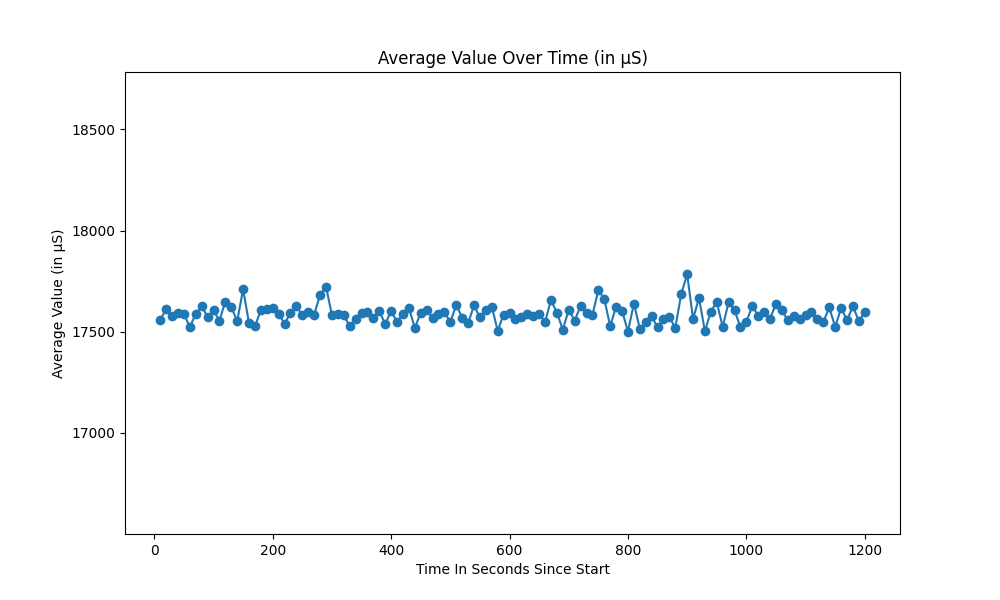
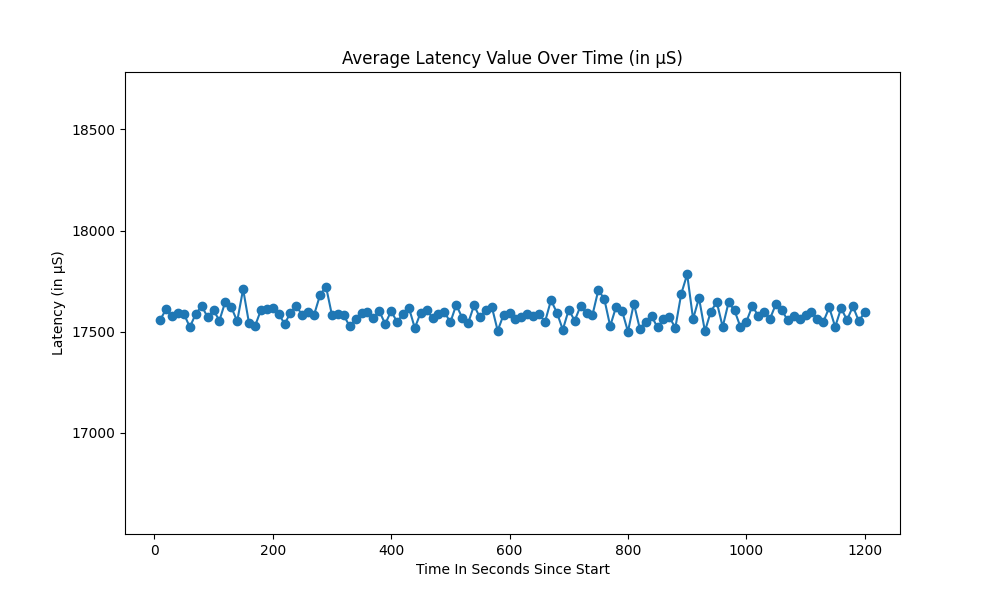
Add files via upload

Changed region(s): [[0.341, 0.09, 0.682, 0.12], [0.031, 0.39, 0.062, 0.63]]

diff --git a/fio-avglat.py b/fio-avglat.py
@@ -21,6 +21,8 @@ reshaped_data_new.columns = reshaped_data_new.columns.astype(int)
 cols_to_drop_new = [col for col in reshaped_data_new.columns if col % 10000 != 0]
 reshaped_data_new.drop(columns=cols_to_drop_new, inplace=True)
 
+# Delete the conversion (and edit the math required) to get the value you need in the chart
+#
 # Convert the values from nanoseconds to milliseconds
 reshaped_data_new = reshaped_data_new.applymap(lambda x: [val / 1e6 for val in x])
 
@@ -44,7 +46,7 @@ plt.plot(averages_new_us.index, averages_new_us, marker='o')
 # Set the labels and title
 plt.xlabel('Time In Seconds Since Start')
 plt.ylabel('Latency (in µS)')
-plt.title('Statistical Latency Value Over Time (in µS)')
+plt.title('Average Latency Value Over Time (in µS)')
 
 # Set the range for the vertical axis
 plt.ylim([vmin_new_us, vmax_new_us])

diff --git a/fio-latstats.py b/fio-latstats.py
@@ -52,7 +52,7 @@ plt.fill_between(average_values.index, average_values - std_dev_values, average_
 # Set the labels and title
 plt.xlabel('Time In Seconds Since Start')
 plt.ylabel('Latency (in µS)')
-plt.title('Latency Over Time (in µS)')
+plt.title('Latency Statistics Over Time (in µS)')
 
 # Set the range for the vertical axis
 plt.ylim([vmin_stats, vmax_stats])

diff --git a/fio-iops.py b/fio-iops.py
@@ -36,6 +36,6 @@ plt.ylim([vmin_iops, vmax_iops])
 # Do not display a legend
 plt.gca().legend_ = None
 
-# Show the plot
-plt.show()
+# Save the plot as a PNG file
+plt.savefig('iops.png')
 
